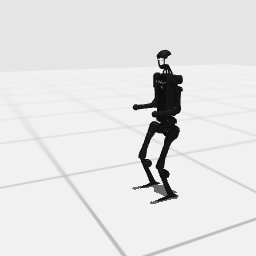
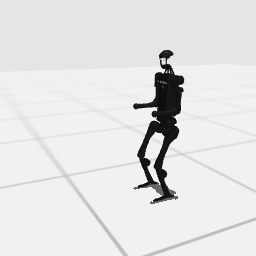
walk and run fixed

diff --git a/humanoid_bench/mjx/test_envs.py b/humanoid_bench/mjx/test_envs.py
@@ -27,19 +27,19 @@ def test_walk_task():
     state = env.reset(rng)
     
     # Print initial observation
-    print("Initial Observation:", state.obs.shape)
+    # print("Initial Observation:", state.obs.shape)
 
     # Run a sample episode
-    for step in range(10):  # Test with a few steps
+    for step in range(1):  # Test with a few steps
         action = jp.ones(env.low_action.shape) * 0.5 # Zero action for testing
-        print ("Action: ", action.shape)
+        # print ("Action: ", action.shape)
         state = env.step(state, action)
         
         # Print the results of each step
-        print(f"Step {step+1}")
-        print("Observation:", state.obs)
-        print("Reward:", state.reward)
-        print("Terminated:", state.done)
+        # print(f"Step {step+1}")
+        # print("Observation:", state.obs)
+        # print("Reward:", state.reward)
+        # print("Terminated:", state.done)
         
         if state.done:
             print("Terminated early!")

diff --git a/humanoid_bench/mjx/envs/run.py b/humanoid_bench/mjx/envs/run.py
@@ -103,7 +103,7 @@ class HumanoidRunPosControl(MjxEnv):
 
     def compute_reward(self, data):
         # Standing and upright calculations
-        head_height = data.data.site_xpos[5, -1]
+        head_height = data.data.site_xpos[2, -1]
         standing = tolerance(head_height, bounds=(self._stand_height, float("inf")), margin=0.4125)
         
         torso_upright = data.data.xmat[1, 2, 2]
@@ -194,9 +194,6 @@ class HumanoidRunPosControl(MjxEnv):
      )
     
     def _get_obs(self, data) -> jp.ndarray:
-        offset = jp.array([data.qpos[0], data.qpos[1], 0])
-        return jp.concatenate([data.qpos[self.body_idxs][2:],
-                data.qvel[self.body_vel_idxs],
-                data.site_xpos[4]-offset,
-                data.site_xpos[5]-offset])
+        return jp.concatenate([data.qpos[self.body_idxs],
+                data.qvel[self.body_vel_idxs]])
 

diff --git a/humanoid_bench/mjx/envs/walk.py b/humanoid_bench/mjx/envs/walk.py
@@ -103,7 +103,7 @@ class HumanoidWalkPosControl(MjxEnv):
 
     def compute_reward(self, data):
         # Standing and upright calculations
-        head_height = data.data.site_xpos[5, -1]
+        head_height = data.data.site_xpos[2, -1]
         standing = tolerance(head_height, bounds=(self._stand_height, float("inf")), margin=0.4125)
         
         torso_upright = data.data.xmat[1, 2, 2]

diff --git a/humanoid_bench/test_env.py b/humanoid_bench/test_env.py
@@ -69,6 +69,7 @@ if __name__ == "__main__":
     env.render()
     ret = 0
     while True:
+        print (env.robot.torso_upright(), env.data.xmat[1])
         action = env.action_space.sample()
         ob, rew, terminated, truncated, info = env.step(action)
         img = env.render()
